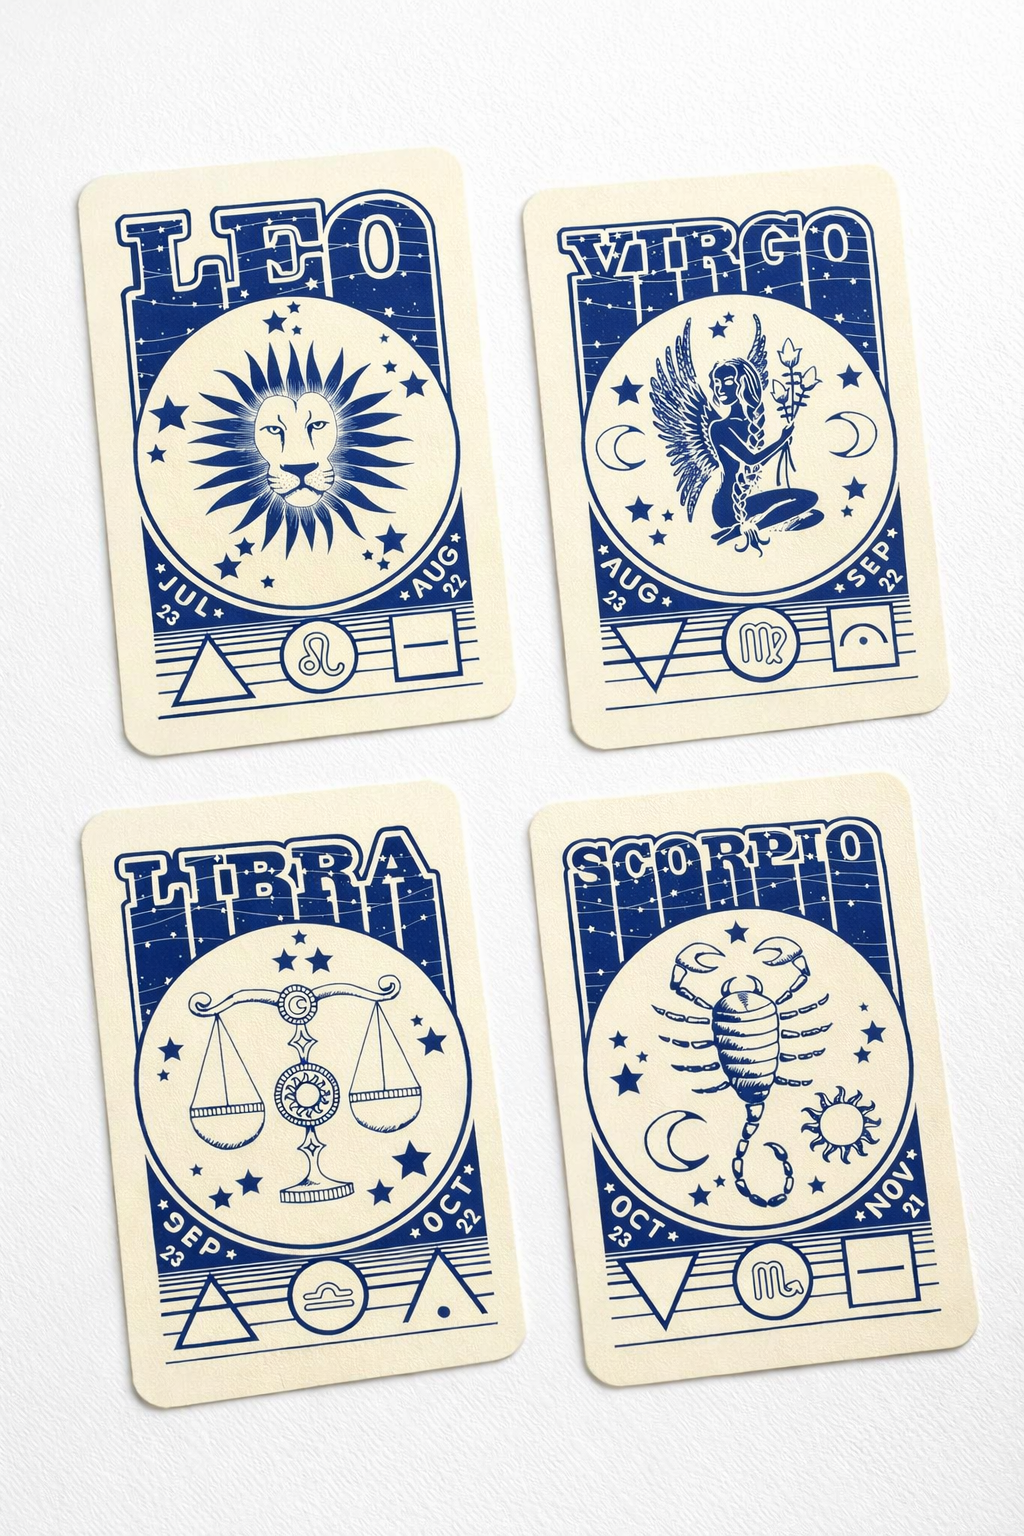
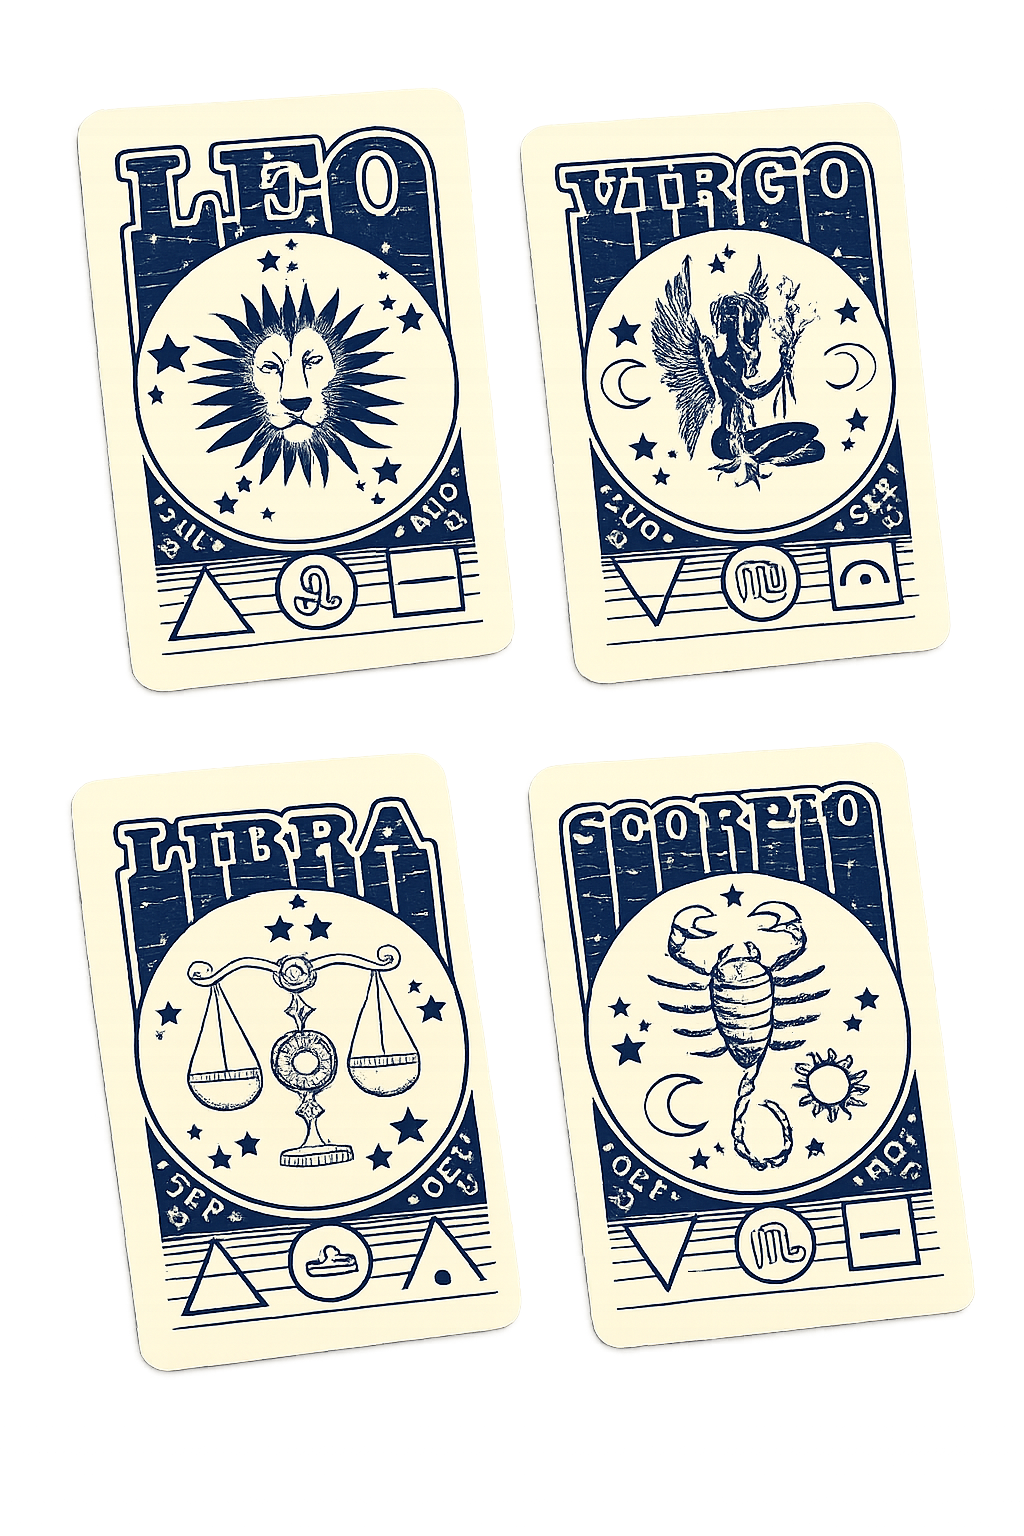
commit mockups

diff --git a/Project2_test/script.js b/Project2_test/script.js
@@ -675,6 +675,18 @@ function setupZodiacWheel() {
   updateSelectedFromRotation(true);
 }
 
+function renderMockups() {
+  const page = document.getElementById("mockups");
+  page.innerHTML = `
+    <div class="section-kicker">Physical Mockups</div>
+    <h2 class="section-title">Mockups</h2>
+    <p class="section-copy">Physical mockup of constellation cards</p>
+    <div class="mockup-container">
+      <img src="mockup.png" alt="Project mockup" class="mockup-image" onerror="this.alt='mockup.png not found'; this.style.opacity=0.35;" />
+    </div>
+  `;
+}
+
     function renderAbout() {
       const page = document.getElementById("about");
       page.innerHTML = `

diff --git a/Project2_test/styles.css b/Project2_test/styles.css
@@ -219,6 +219,21 @@
       max-width: 760px;
     }
 
+    .mockup-container {
+      margin-top: 24px;
+      display: flex;
+      justify-content: center;
+      align-items: center;
+    }
+
+    .mockup-image {
+      width: min(100%, 520px);
+      height: auto;
+      border-radius: 18px;
+      border: 1px solid var(--soft-line);
+      box-shadow: 0 20px 45px rgba(0, 0, 0, 0.35);
+    }
+
     .two-col {
       display: grid;
       grid-template-columns: 320px 1fr;
